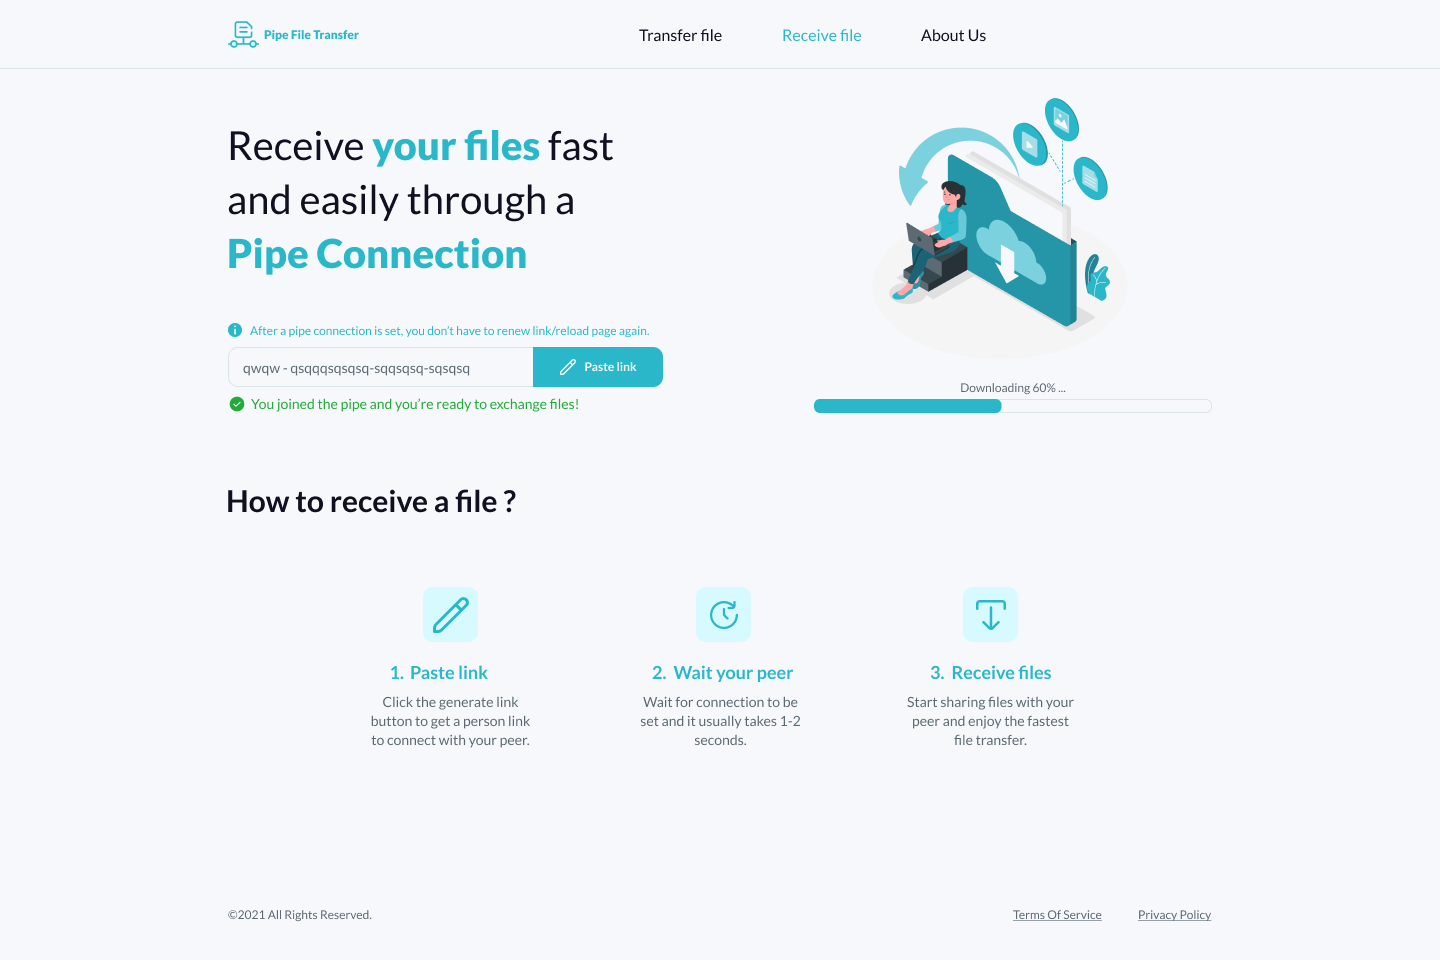
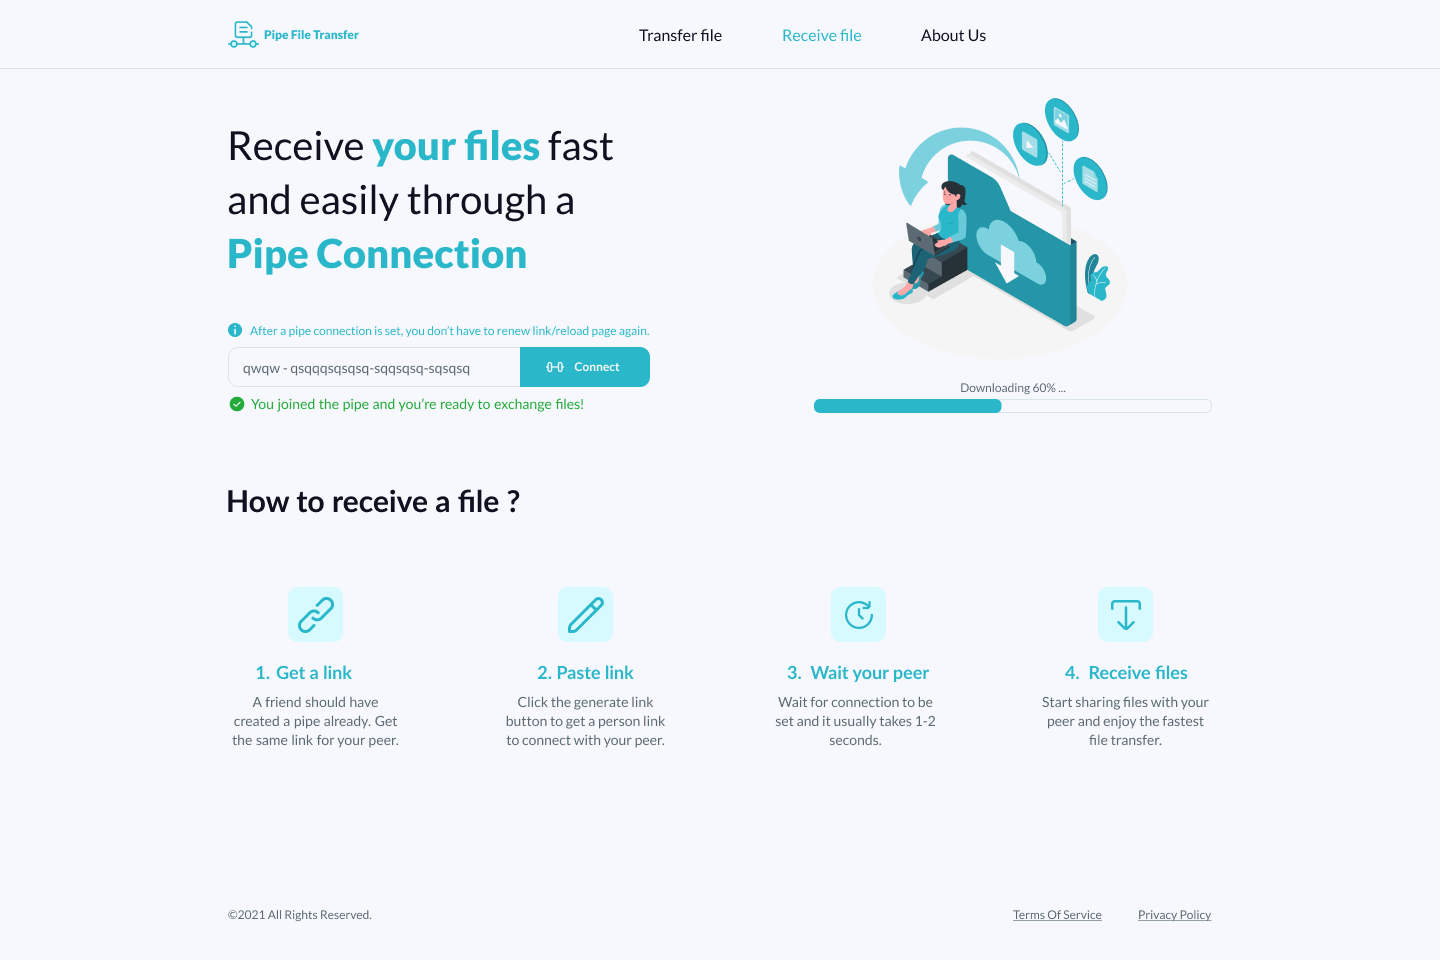
Complete Frontend Done.

diff --git a/frontend/receive.html b/frontend/receive.html
@@ -4,9 +4,107 @@
     <meta charset="UTF-8">
     <meta http-equiv="X-UA-Compatible" content="IE=edge">
     <meta name="viewport" content="width=device-width, initial-scale=1.0">
-    <title>Document</title>
+    <title>PFT Website</title>
+    <link rel="stylesheet" href="style.css">
+    <link rel="preconnect" href="https://fonts.gstatic.com">
+    <link rel="stylesheet" href="https://cdnjs.cloudflare.com/ajax/libs/font-awesome/5.15.3/css/all.min.css">
 </head>
 <body>
-    
+    <header>
+        <img class="logo" src="/frontend/Pics-icons/Logo.svg" alt="logo">
+        <nav>
+            <ul class="nav_links">
+                <li><a href="/frontend/transfer.html">Transfer files</a></li>  
+                <li><a href="#"> <span style="color: #2AB7CA">Receive files </span></a></li>  
+                <li><a href="#">About Us</a></li>  
+            </ul>
+        </nav>
+    </header>
+
+    <div class="main-header">
+
+        <div class="left-main">
+
+            <div class="main-text"> Receive <span style="color:#2AB7CA; font-weight: 600;">your files</span> 
+                fast and easily through a <span style="color:#2AB7CA; font-weight: 600;">Pipe Connection</span>
+            </div>
+
+
+            <div class="info">
+                <div class="info-icon"><img src="/frontend/Pics-icons/information.svg" alt=""></div>
+                <p>After a pipe connection is set, you don’t have to renew link/reload page again.</p>
+            </div>
+
+            <div class="link-create">
+                <div class="link-receive">
+                    <input type="text" placeholder="Paste your link here">
+                </div> 
+                <button class="copy-link"> Connect </button>
+            </div>
+
+            <div class="notify">
+                <div class="notify-icon"><img src="/frontend/Pics-icons/success.svg" alt=""></div>
+                <p>You joined the pipe and you’re ready to exchange files!!</p>
+            </div>
+
+        </div>
+        <div class="right-main">
+
+            <div class="right-illustration">
+                <div class="illustration"> <img src="/frontend/Pics-icons/illustration.svg" alt=""></div>
+            </div>
+
+            <div class="progress-text"> <p>Downloading 60% ...</p> </div>
+            <div class="progress">
+                <div class="progress-fill"></div>
+            </div>
+
+        </div>
+        
+    </div>
+
+    <div class="how-to"><p>How to receive a file ?</p></div>
+
+    <div class="tranfer-steps">
+            <div class="steps">
+                <div class="img-steps"><img src="/frontend/Pics-icons/link.svg" alt=""></div>
+                <div class="title-steps">1. Get a link</div>
+                <div class="para-steps">
+                    <p>A friend should have created a pipe already. Get the same link from your friend.</p>
+                </div>
+            </div>
+
+            <div class="steps">
+                <div class="img-steps"><img src="/frontend/Pics-icons/paste-how.svg" alt=""></div>
+                <div class="title-steps">2. Paste link</div>
+                <div class="para-steps">
+                    <p>Paste the given link from your friend in the designated field and connect.</p>
+                </div>
+            </div>
+
+            <div class="steps">
+                <div class="img-steps"><img src="/frontend/Pics-icons/wait.svg" alt=""></div>
+                <div class="title-steps">3. Wait your peer</div>
+                <div class="para-steps">
+                    <p>Wait for connection to be set and it usually takes 1-2 seconds.</p>
+                </div>
+            </div>
+
+            <div class="steps">
+                <div class="img-steps"><img src="/frontend/Pics-icons/receive-how.svg" alt=""></div>
+                <div class="title-steps">4. Share Files</div>
+                <div class="para-steps">
+                    <p>Start sharing files with your peer and enjoy the fastest file transfer.</p>
+                </div>
+            </div>
+    </div>
+
+    <footer>
+        <div class="left-foot"><p>©2021 All Rights Reserved.</p></div>
+        <div class="right-foot">
+            <p>Terms Of Service</p>
+            <p>Privacy Policy</p>
+        </div>
+    </footer>
 </body>
 </html>

diff --git a/frontend/style.css b/frontend/style.css
@@ -102,18 +102,34 @@ header {
 }
 
 .link-text {
+    font-size: 16px;
     display: flex;
     align-items: center;
     border: 1px solid #D8E6E8;
     padding: 14px 30px;
     border-radius: 10px 0 0 10px;
-    color: #5C6B73;
+    color: #aec8cc;
+    width: 325px;
+
+}
+.notify{
+    font-size: 13px;
+    color: #22AA3A;
+    display: flex;
+    align-items: center;
+    padding-top: 10px;
+}
+
+.notify-icon {
+    padding-right: 8px;
+    padding-top:2px;
 }
 
 /* Drag- area css */
+
 .drag-area {
     margin-top: 20px;
-    width: 440px;
+    width: 380px;
     height: 300px;
     border: 2px dashed #2AB7CA;
     border-radius: 20px;
@@ -147,24 +163,37 @@ header {
     background-color: #0F1020;
 }
 
-.notify{
-    font-size: 13px;
-    color: #22AA3A;
+.progress-text{
+    margin-top: 13px;
     display: flex;
-    align-items: center;
-    padding-top: 10px;
+    width: 380px;
+    gap: 3px;
+    color: #5C6B73;
+    font-size: 14px;
+    justify-content: space-around;
+}
+.progress {
+    margin-top: 8px;
+    width: 380px;
+    height: 13px;
+    background-color: #F7F8FC;
+    border: 1px solid #2AB7CA;
+    border-radius: 20px;
+    overflow: hidden;
 }
 
-.notify-icon {
-    padding-right: 8px;
-    padding-top:2px;
+.progress-fill {
+    width: 60%;
+    height: 100%;
+    background: #2AB7CA;
 }
 
+/* ________________________ */
 .how-to{
     margin-left: 18%;
     padding-top: 70px;
     font-size: 30px;
-    font-weight: 500;
+    font-weight: 530;
 }
 
 .tranfer-steps { 
@@ -175,6 +204,7 @@ header {
     /* gap: 180px; */
     justify-content:space-between;
     flex-wrap: wrap;
+    padding-bottom: 40px;
 }
 
 .steps {
@@ -202,14 +232,12 @@ footer{
     color: #5C6B73;
     display: flex;
     margin-left: 18%;
-    position: fixed;
-    bottom:0;
-    height: 60px;
+    bottom:15px;
     justify-content: space-between;
     flex-wrap: wrap;
     padding-top: 20px;
+    padding-bottom: 30px;
     border-top: 1px solid #D8E6E8;
-
 }
 
 .right-foot{
@@ -220,3 +248,46 @@ footer{
     cursor: pointer;
     flex-wrap: wrap;
 }
+
+
+/* ___________ Receive Files page __________ */
+
+.right-illustration{
+    margin-top: 20px;
+    width: 440px;
+    height: 300px;
+    border-radius: 20px;
+    display: flex;
+    align-items: center;
+    justify-content: center;
+    flex-direction: column;
+}
+
+.illustration {
+    height: auto;
+    width: auto;
+}
+
+
+input{
+    border: 1px solid #D8E6E8;
+    padding:30px;
+    border-radius: 10px 0 0 10px;
+    font-size: 16px;
+    padding: 14px 30px;
+    width: 370px;
+}
+
+input:hover{
+    border: 1px solid  #2AB7CA;
+}
+
+input:focus{
+    border: 1px solid  #2AB7CA;
+    outline: #2AB7CA;
+    color:#0F1020
+}
+
+::placeholder {
+    color: #aec8cc;
+  }

diff --git a/frontend/transfer.html b/frontend/transfer.html
@@ -14,8 +14,8 @@
         <img class="logo" src="/frontend/Pics-icons/Logo.svg" alt="logo">
         <nav>
             <ul class="nav_links">
-                <li><a href="#">Transfer files</a></li>  
-                <li><a href="#">Receive files</a></li>  
+                <li><a href="#"> <span style="color: #2AB7CA">Transfer files </span></a></li>  
+                <li><a href="/frontend/receive.html">Receive files</a></li>  
                 <li><a href="#">About Us</a></li>  
             </ul>
         </nav>
@@ -27,8 +27,7 @@
 
             <div class="main-text"> Transfer <span style="color:#2AB7CA; font-weight: 600;">your files</span> 
                 fast and easily through a <span style="color:#2AB7CA; font-weight: 600;">Pipe Connection</span>
-        </div>
-
+            </div>
 
             <div class="info">
                 <div class="info-icon"><img src="/frontend/Pics-icons/information.svg" alt=""></div>
@@ -37,24 +36,33 @@
 
             <div class="link-create">
                 <div class="link-text">
-                    <p>qwqw-qsqqqsqsqsq-sqqsqsq-sqsqsq</p>
+                    <p>Click button to generate link</p>
                 </div> 
-                <button class="copy-link"> Copy Link</button>
+                <button class="copy-link"> Generate Link</button>
             </div>
 
             <div class="notify">
                 <div class="notify-icon"><img src="/frontend/Pics-icons/success.svg" alt=""></div>
                 <p>A person joined the pipe and you’re ready to exchange files!</p>
             </div>
+        </div>
+
+        <div class="right-main">
+
+            <div class="drag-area">
+                <div class="cloud-icon"> <img src="/frontend/Pics-icons/cloudupload.svg" alt=""></div>
+                <div class="drag-header">Drag & Drop to Upload a File</div>
+                <span style="color: #2AB7CA; font-size: 20px; margin-bottom: 22px;">OR</span>
+                <button class="browse-file">Browse File</button>
+            </div>
+
+            <div class="progress-text"> <p>Sending 60% ...</p> </div>
+            <div class="progress">
+                <div class="progress-fill"></div>
+            </div>
 
         </div>
 
-        <div class="drag-area">
-            <div class="cloud-icon"> <img src="/frontend/Pics-icons/cloudupload.svg" alt=""></div>
-            <div class="drag-header">Drag & Drop to Upload a File</div>
-            <span style="color: #2AB7CA; font-size: 20px; margin-bottom: 22px;">OR</span>
-            <button class="browse-file">Browse File</button>
-        </div>
 
     </div>
 
